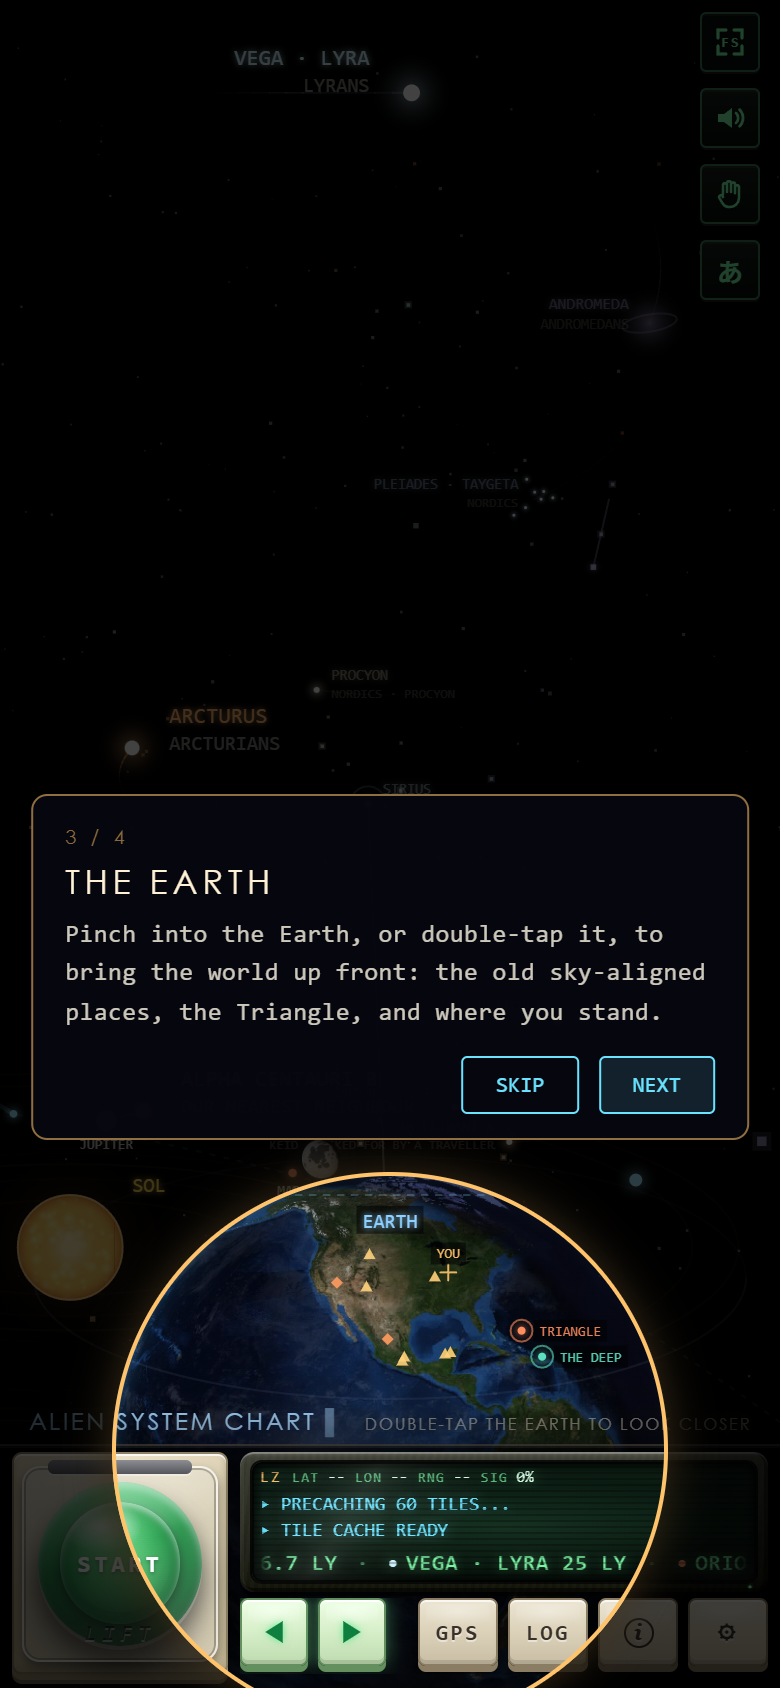
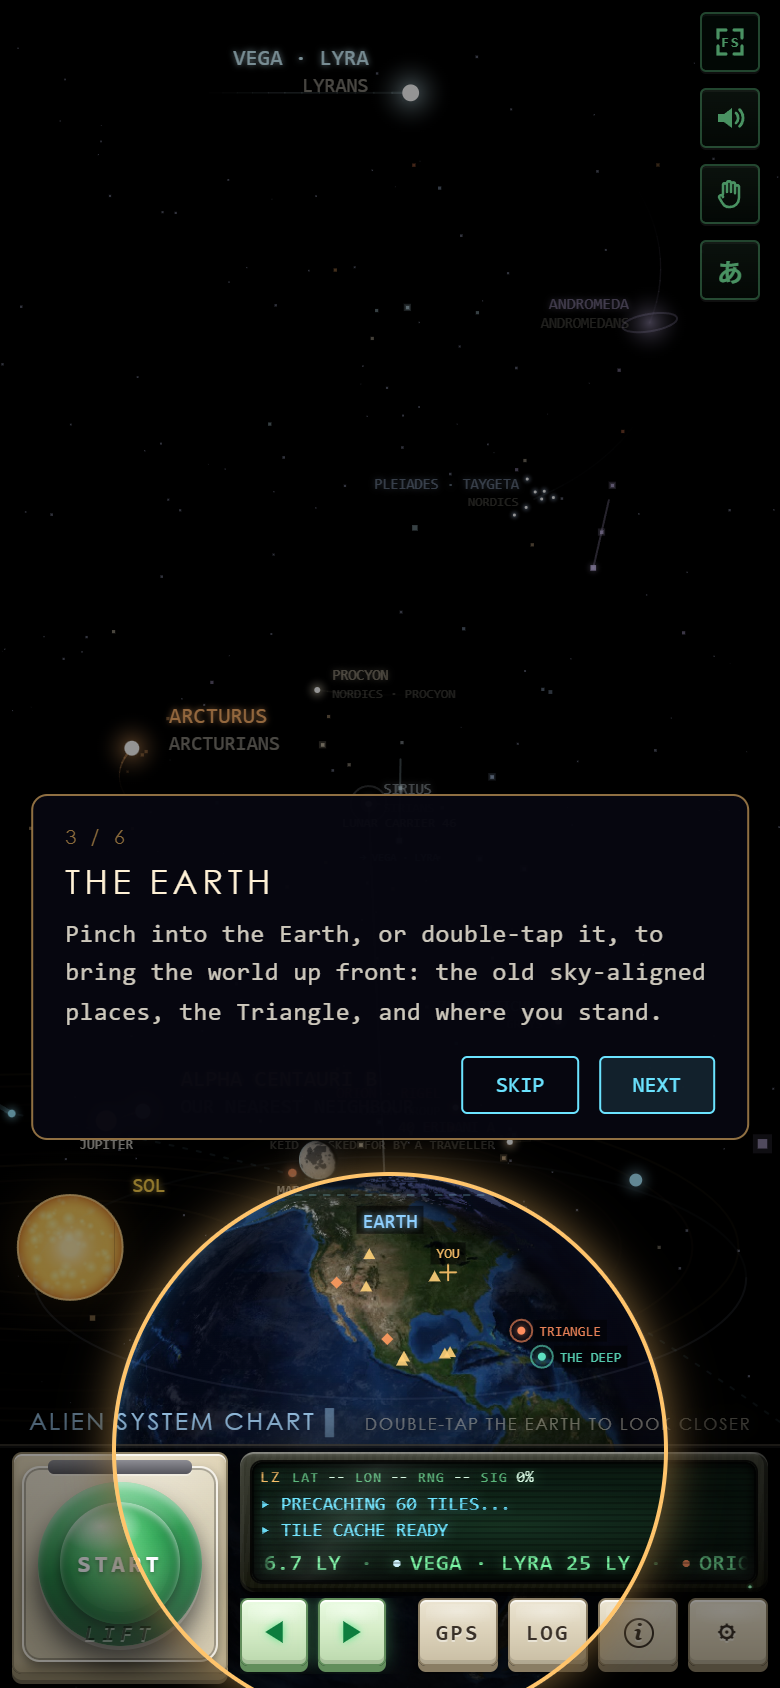
Guide dim lightened; the voice stops when the window is hidden; reading a touch faster with a READING SPEED slider

diff --git a/index.html b/index.html
@@ -40,7 +40,7 @@
 <meta name="twitter:card" content="summary_large_image" />
 <link rel="stylesheet" href="vendor/leaflet/leaflet.min.css?v=1" />
 <script src="vendor/leaflet/leaflet.js?v=1"></script>
-<link rel="stylesheet" href="styles.css?v=29" />
+<link rel="stylesheet" href="styles.css?v=30" />
 </head>
 <body class="intro introHud">
 
@@ -108,6 +108,8 @@
         <option value="f">HER &#8212; VIVIAN, WARM AND SLOW</option>
         <option value="off">NONE &#8212; NO VOICE, JUST THE CONSOLE</option>
       </select>
+      <div class="setLbl">READING SPEED &#8212; <span id="vVoice">1.1</span>&#215; · 1 = AS RECORDED, SLOW AND EASY</div>
+      <input type="range" id="rVoice" min="0.8" max="1.6" step="0.05" value="1.1" />
       <label class="setChk"><input type="checkbox" id="ckFps" />FPS COUNTER IN THE TOP LEFT (FOR THE CURIOUS)</label>
       <label class="setChk"><input type="checkbox" id="ckNoGuide" />NEVER SHOW THE FIRST-NIGHT GUIDE — IT STAYS OFF ON THIS DEVICE · THE BUTTON BELOW STILL BRINGS IT UP WHEN YOU ASK</label>
       <div class="bdBtns"><span class="setBtn" id="bGuide">SHOW THE FIRST-NIGHT GUIDE AGAIN</span></div>
@@ -835,7 +837,7 @@ const S = { breath: 4, spaceMul: 0.5, diveMul: 0.5, originMul: 0.5, flyby: 5, de
   nukeAll: true, cache: "normal", vol: 0.7,
   deep: false, deepA: 0.15, spin: 0.05, trails: true, planets: true, traffic: true,
   earthSrc: "photo", cloudA: 0.15, cloudSpd: 0.6, uTime: 600, exo: false, attract: true, sysHold: 7.5,
-  shipSpd: 1, shipRnd: false, roadster: false, sites: true, pyr: true, nukes: false, timeline: false, opening: true, faces: true, face: "both", sfx: true, voice: true, voiceSex: "m", flySnd: true, amb: true, fps: false, noGuide: false, lore: true, tapLook: true, pursue: false, uso: false, trueSky: true, bBar: true, iso: true, fleetN: 3, fleetTag: true, poles: true, ages: false,
+  shipSpd: 1, shipRnd: false, roadster: false, sites: true, pyr: true, nukes: false, timeline: false, opening: true, faces: true, face: "both", sfx: true, voice: true, voiceSex: "m", voiceRate: 1.1, flySnd: true, amb: true, fps: false, noGuide: false, lore: true, tapLook: true, pursue: false, uso: false, trueSky: true, bBar: true, iso: true, fleetN: 3, fleetTag: true, poles: true, ages: false,
   sysOn: { zeta: true, plei: true, siri: true, arct: true, vega: true, orio: true, andr: true, proc: true, drac: false, erid: true, acen: true },
   loreBy: { lazar: true, lear: true, meier: true, contact: true, anon: true, doty: true } };   // whose claims show: each voice has its own switch
 const LORE_BY = ["lazar", "lear", "meier", "contact", "anon", "doty"];   // frozen order for the setup code: append, never insert
@@ -6169,7 +6171,7 @@ function audioGuard() {                                          // Android naps
 }
 setInterval(audioGuard, 3000);
 document.addEventListener("visibilitychange", () => {
-  if (document.hidden) { try { if (ac) ac.suspend(); } catch (e) {} }   // look away and the sound sleeps
+  if (document.hidden) { voiceStop(); try { if (ac) ac.suspend(); } catch (e) {} }   // look away and the sound sleeps, the voice too
   else audioGuard();                                             // look back and it wakes
 });
 let introFxOff = false;                                          // a skip means silence, not a pile-up
@@ -6595,6 +6597,7 @@ function voiceSay(name) {                                        // muted means 
   voiceStop();
   if (muted || !S.voice) return false;
   const a = new Audio("voice/" + (S.voiceSex === "f" ? "f/" : "") + name + ".mp3"); a.preload = "auto"; a.volume = 0.95;
+  a.playbackRate = S.voiceRate || 1.1; try { a.preservesPitch = true; } catch (e) {}   // a touch quicker than recorded, same pitch
   voiceEl = a; voiceName = name;
   a.onended = a.onerror = () => { if (voiceEl === a) { voiceEl = null; voiceName = ""; } };
   const p = a.play(); if (p && p.catch) p.catch(() => { if (voiceEl === a) { voiceEl = null; voiceName = ""; } });
@@ -7526,6 +7529,7 @@ function loadSettings() {
   if (S.voiceSex !== "f" && S.voiceSex !== "off") S.voiceSex = "m";
   if (S.voice === false) S.voiceSex = "off";                    // the old tick box, unticked = NONE
   S.voice = S.voiceSex !== "off";
+  if (!(S.voiceRate >= 0.8 && S.voiceRate <= 1.6)) S.voiceRate = 1.1;
   if (S.pyr === undefined) S.pyr = true;                        // saves from before the pyramids stood
   if (S.idleBack === undefined) S.idleBack = 60;                // saves from before the chart came back on its own   // off until you tick it (his call, 09-02); older saves take the new defaults                  // saves from before the bridge existed   // older saves: every voice on
   if (d.target && !hashLL && isFinite(+d.target.lat) && isFinite(+d.target.lon)) {
@@ -7567,7 +7571,7 @@ function applyS() {                                             // push S into e
   chk("ckCrt", S.crt); chk("ckVig", S.vig); set("selRet", S.ret); applyScreen();
   chk("ckLoreLazar", S.loreBy.lazar !== false); chk("ckLoreLear", S.loreBy.lear !== false); chk("ckLoreMeier", S.loreBy.meier !== false);
   chk("ckLoreContact", S.loreBy.contact !== false); chk("ckLoreAnon", S.loreBy.anon !== false); chk("ckLoreDoty", S.loreBy.doty !== false);
-  set("selChart", S.chart3d ? "3d" : "flat"); chk("ckFades", S.fades); chk("ckNoGuide", !!S.noGuide); chk("ckOpening", S.opening); chk("ckFaces", S.faces); set("selFace", S.face); { const st = $("sysStat"); if (st) st.textContent = SYSTEMS.length + " OF " + SYSTEMS_ALL.length + " ON \u00b7 " + SYSTEMS.map((s) => s.name.split(" ")[0]).join(", "); } chk("ckTapLook", S.tapLook !== false); chk("ckLore", S.lore !== false); chk("ckPursue", S.pursue !== false); chk("ckUso", S.uso !== false); chk("ckTrueSky", !!S.trueSky); chk("ckSfx", S.sfx); set("selVoice", S.voiceSex === "f" || S.voiceSex === "off" ? S.voiceSex : "m"); chk("ckFly", S.flySnd !== false); chk("ckAmb", S.amb !== false); chk("ckFps", !!S.fps); fpsRun();
+  set("selChart", S.chart3d ? "3d" : "flat"); chk("ckFades", S.fades); chk("ckNoGuide", !!S.noGuide); chk("ckOpening", S.opening); chk("ckFaces", S.faces); set("selFace", S.face); { const st = $("sysStat"); if (st) st.textContent = SYSTEMS.length + " OF " + SYSTEMS_ALL.length + " ON \u00b7 " + SYSTEMS.map((s) => s.name.split(" ")[0]).join(", "); } chk("ckTapLook", S.tapLook !== false); chk("ckLore", S.lore !== false); chk("ckPursue", S.pursue !== false); chk("ckUso", S.uso !== false); chk("ckTrueSky", !!S.trueSky); chk("ckSfx", S.sfx); set("selVoice", S.voiceSex === "f" || S.voiceSex === "off" ? S.voiceSex : "m"); set("rVoice", S.voiceRate); txt("vVoice", S.voiceRate); chk("ckFly", S.flySnd !== false); chk("ckAmb", S.amb !== false); chk("ckFps", !!S.fps); fpsRun();
   chk("ckDeep", S.deep); set("rDeep", Math.round(S.deepA * 100)); txt("vDeep", Math.round(S.deepA * 100));
   chk("ckTrails", S.trails); set("rSpin", Math.round(S.spin * 100)); txt("vSpin", spinText(S.spin)); chk("ckAttract", S.attract);
   set("rSys", 23 - S.sysHold); txt("vSys", (+S.sysHold).toFixed(1));
@@ -7672,6 +7676,8 @@ $("ckPursue").onchange = (e) => { S.pursue = e.target.checked; if (S.pursue) loa
 $("ckUso").onchange = (e) => { S.uso = e.target.checked; if (S.uso) loadUso(); };
 $("ckTrueSky").onchange = (e) => { S.trueSky = e.target.checked; applySky(); chartTgt = null; log(S.trueSky ? "TRUE SKY: EACH SYSTEM SITS AT ITS REAL RIGHT ASCENSION \u2014 THEY BUNCH UP THE WAY THE REAL SKY DOES" : "SPREAD SKY: THE SYSTEMS SPACED OUT ROUND THE TURNTABLE", "cy"); };
 $("ckSfx").onchange = (e) => (S.sfx = e.target.checked);
+$("rVoice").oninput = (e) => { S.voiceRate = +e.target.value; $("vVoice").textContent = S.voiceRate; if (voiceEl) voiceEl.playbackRate = S.voiceRate; };   // the clip in flight follows the slider
+$("rVoice").onchange = () => { if (voiceName) return; const s = selected && !selected.mode ? selected : SYSTEMS[0]; if (s && VOICE_SYS.has(s.id)) voiceSay("sys-" + s.id); };   // let go: hear it
 $("selVoice").onchange = (e) => {                               // HIM, HER, or none; hear the change at once
   S.voiceSex = e.target.value; S.voice = S.voiceSex !== "off";
   if (!S.voice) { voiceStop(); log("THE VOICE IS OFF", "cy"); return; }

diff --git a/styles.css b/styles.css
@@ -837,7 +837,7 @@ svg.shp { width: 72px; height: 54px; fill: none; stroke: var(--amber, #ffc46b);
 #guide { position: fixed; inset: 0; z-index: 11; }
 #guide.hide { display: none; }
 #guideSpot { position: absolute; border: 2px solid var(--amber); border-radius: 12px; pointer-events: none;
-  box-shadow: 0 0 0 9999px rgba(0,0,0,0.74), 0 0 22px rgba(255,196,107,0.85);
+  box-shadow: 0 0 0 9999px rgba(0,0,0,0.42), 0 0 22px rgba(255,196,107,0.85);   /* a lighter dim: the chart stays readable behind the guide (his ask 09-03) */
   transition: left 0.45s ease, top 0.45s ease, width 0.45s ease, height 0.45s ease, border-radius 0.45s ease; }
 #guideCard { position: absolute; left: 50%; transform: translateX(-50%); width: min(92vw, 430px); box-sizing: border-box;
   background: rgba(6,6,16,0.97); border: 1px solid rgba(255,196,107,0.55); border-radius: 8px; padding: 14px 16px 12px; color: var(--ink); transition: top 0.45s ease; }

diff --git a/sw.js b/sw.js
@@ -3,7 +3,7 @@
    and the two data files are all held locally. Live things (the travellers board, the satellite
    tiles of your own roof) are tried on the network first and simply fall away when there is none. */
 
-const VER = "ce5-v40";
+const VER = "ce5-v41";
 const SHELL = VER + "-shell";
 const LIVE = VER + "-live";
 
@@ -11,7 +11,7 @@ const LIVE = VER + "-live";
 const PRECACHE = [
   "./",
   "./index.html",
-  "./styles.css?v=29",
+  "./styles.css?v=30",
   "./manifest.json",
   "./vendor/leaflet/leaflet.js?v=1",
   "./vendor/leaflet/leaflet.min.css?v=1",
